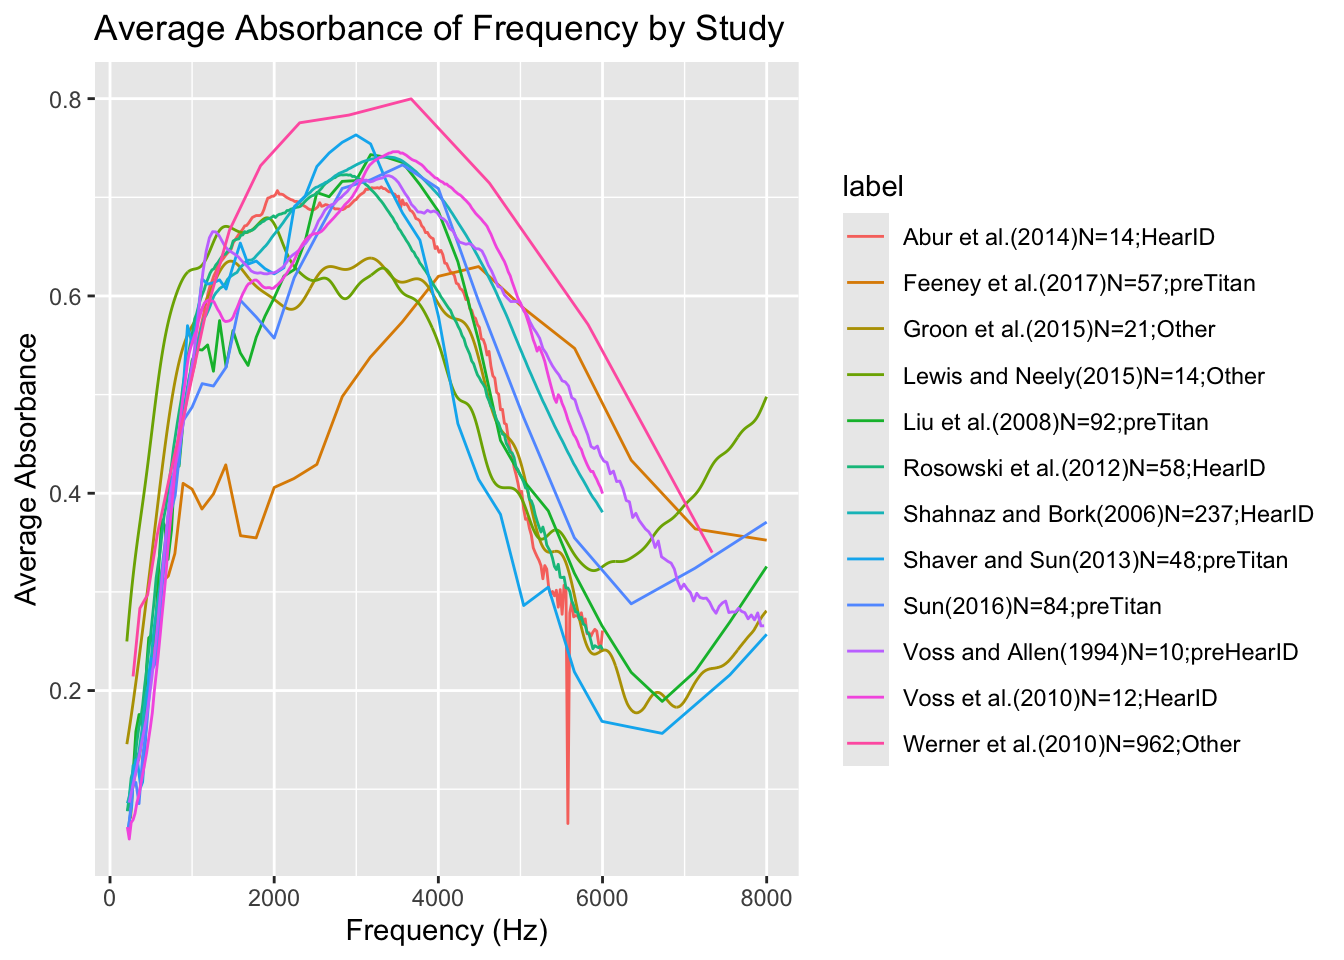
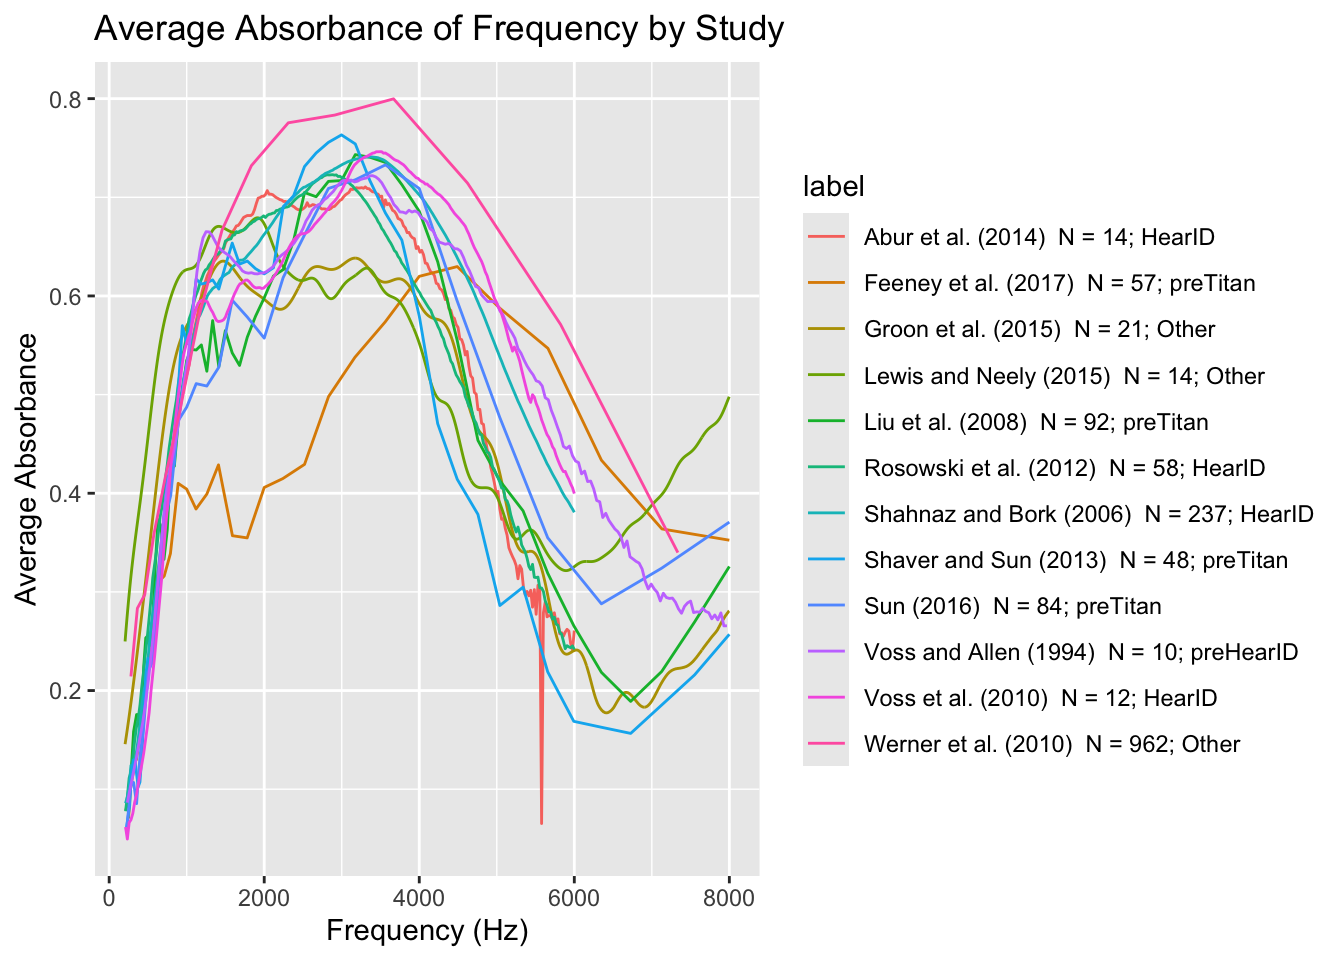
waiii

Changed region(s): [[0.0938, 0.0625, 0.9062, 0.9688], [0.25, 0.9062, 0.4688, 1.0], [0.1875, 0.9062, 0.2188, 0.9688]]

diff --git a/docs/WAI_database.html b/docs/WAI_database.html
@@ -158,6 +158,10 @@ pre > code.sourceCode > span > a:first-child::before { text-decoration: underlin
     <a class="dropdown-item" href="./WAI_database.html">
  <span class="dropdown-text">Project 4: WAI Database Analysis Using SQL</span></a>
   </li>  
+        <li>
+    <a class="dropdown-item" href="./finalpresentation.html">
+ <span class="dropdown-text">Presentation</span></a>
+  </li>  
     </ul>
   </li>
 </ul>
@@ -232,7 +236,7 @@ pre > code.sourceCode > span > a:first-child::before { text-decoration: underlin
 <span id="cb3-6"><a href="#cb3-6" aria-hidden="true" tabindex="-1"></a>M.Instrument, </span>
 <span id="cb3-7"><a href="#cb3-7" aria-hidden="true" tabindex="-1"></a>P.AuthorsShortList,</span>
 <span id="cb3-8"><a href="#cb3-8" aria-hidden="true" tabindex="-1"></a>P.<span class="dt">Year</span>,</span>
-<span id="cb3-9"><a href="#cb3-9" aria-hidden="true" tabindex="-1"></a><span class="fu">CONCAT</span>(P.AuthorsShortList, <span class="ot">"("</span>, P.<span class="dt">Year</span>, <span class="ot">")"</span>, <span class="ot">"N="</span>,<span class="fu">COUNT</span>(<span class="kw">DISTINCT</span> M.SubjectNumber, M.Ear), <span class="ot">";"</span>, M.Instrument) <span class="kw">AS</span> <span class="kw">label</span> </span>
+<span id="cb3-9"><a href="#cb3-9" aria-hidden="true" tabindex="-1"></a><span class="fu">CONCAT</span>(P.AuthorsShortList, <span class="ot">" ("</span>, P.<span class="dt">Year</span>, <span class="ot">") "</span>, <span class="ot">" N = "</span>,<span class="fu">COUNT</span>(<span class="kw">DISTINCT</span> M.SubjectNumber, M.Ear), <span class="ot">"; "</span>, M.Instrument) <span class="kw">AS</span> <span class="kw">label</span> </span>
 <span id="cb3-10"><a href="#cb3-10" aria-hidden="true" tabindex="-1"></a><span class="kw">FROM</span> Measurements <span class="kw">AS</span> M</span>
 <span id="cb3-11"><a href="#cb3-11" aria-hidden="true" tabindex="-1"></a><span class="kw">JOIN</span> PI_Info <span class="kw">AS</span> P</span>
 <span id="cb3-12"><a href="#cb3-12" aria-hidden="true" tabindex="-1"></a><span class="kw">ON</span> M.<span class="kw">Identifier</span> <span class="op">=</span> P.<span class="kw">Identifier</span></span>
